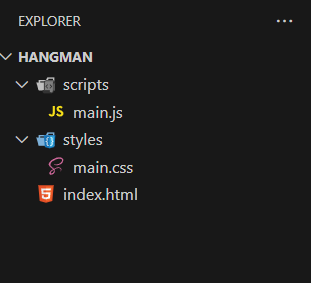
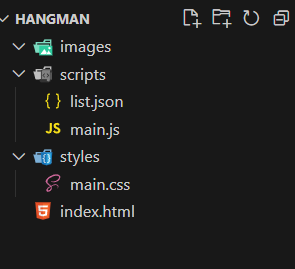
fixed tutorial

diff --git a/tutorial.html b/tutorial.html
@@ -14,7 +14,7 @@
         <article class="sidebar__item">
             <a href="#stepone">
                 <div class="sidebar__text">
-                    <h2>Stap 1: mappen en bestanden</h2>
+                    <h2>Stap 1: Mappen en bestanden</h2>
                 </div>
             </a>
         </article>
@@ -69,7 +69,7 @@
                     <div>
                         <h3>We gaan het spel hangman maken!</h3>
                         <p>Jullie zullen een klein proevertje krijgen van 1 van de oneindige mogelijkheden dat je kan doen als developer.</p>
-                        <p>We gebruiken in deze workshop de code-editor <a href="https://code.visualstudio.com/">Visual Studio Code.</a></p>
+                        <p>We gebruiken in deze workshop de code-editor <a class="link__tutorial" href="https://code.visualstudio.com/">Visual Studio Code.</a></p>
                         <p>We gaan gebruik maken van volgende codetalen:
                             <ul>
                                 <li>JavaScript</li>
@@ -85,12 +85,17 @@
             <section class="container__steps" id="stepone">
                 <article class="steps__item">
                     <div>
-                        <h2>Stap 1 - mappen en bestanden</h2>
+                        <h2>Stap 1 - Mappen en bestanden</h2>
+                    </div>
+                    <div class="steps__items--text">
+                        <ul>
+                            <li>1.1 download <a href="hangman_svg's.zip" download class="link__tutorial"> hier</a> alle hangman svg's</li>
+                        </ul>
                     </div>
                     <div class="steps__items--text">
                         <div>
                             <ul>
-                                <li>1.1 Maak een nieuwe map aan en geef als naam hangman</li>
+                                <li>1.2 Maak een nieuwe map aan en geef als naam hangman</li>
                             </ul>
                         </div>
                         <div>
@@ -100,7 +105,7 @@
                     <div class="steps__items--text">
                         <div>
                             <ul>
-                                <li>1.2 Open het programma <a href="https://code.visualstudio.com/">Visual Studio Code</a> en open de folder die je zonet hebt gemaakt</li>
+                                <li>1.3 Open het programma <a href="https://code.visualstudio.com/" class="link__tutorial">Visual Studio Code</a> en open de folder die je zonet hebt gemaakt</li>
                             </ul>
                         </div>
                         <div>
@@ -110,7 +115,7 @@
                     <div class="steps__items--text">
                         <div>
                             <ul>
-                                <li>1.3 Maak de volgende folderstructuur</li>
+                                <li>1.4 Maak de volgende folderstructuur</li>
                             </ul>
                         </div>
                         <div>
@@ -118,9 +123,17 @@
                         </div>
                     </div>
                     <div class="steps__items--text">
+                        <ul>
+                            <li>1.5 pak het zip bestand uit en sleep de hangman svg's naar de images map</li>
+                        </ul>
+                        <div>
+                            <img src="images/folder-structure-hangman.png" alt="screenshot van de folderstructuur met de hangman svg's">
+                        </div>
+                    </div>
+                    <div class="steps__items--text">
                         <div>
                             <ul>
-                                <li>1.4 Installeer de liveserver extensie zodat je html files kunt bekijken in de browser</li>
+                                <li>1.6 Installeer de liveserver extensie zodat je html files kunt bekijken in de browser</li>
                             </ul>
                         </div>
                         <div>
@@ -131,7 +144,7 @@
                         </div>
                     <div class="steps__items--text">
                         <ul>
-                            <li>1.5 druk met een rechter muisklik op de index.html en druk op open with liveserver, zo wordt je standaard browser gestart en zal je een blanco pagina zien verschijnen!</li>
+                            <li>1.7 druk met een rechter muisklik op de index.html en druk op open with liveserver, zo wordt je standaard browser gestart en zal je een blanco pagina zien verschijnen!</li>
                         </ul>
                         <div>
                         <img src="./images/start-met-liveserver.png" alt="">
@@ -274,20 +287,138 @@
                             on <a href="https://codepen.io">CodePen</a>.</span>
                         </p>
                         <script async src="https://public.codepenassets.com/embed/index.js"></script>
+                    </div>
+                    <div class="steps__items--text">
                         <ul>
-                            <li>Deze functies zeggen eigenlijk hoe het toetsenbord moet werken, dus het kijkt naar de juistheid, het woord wordt ook ingevuld, fouten worden geteld en of het spel eventueel wordt beïndigd en ook wordt het figuurtje getekent.</li>
+                            <li>5.2 Nu het toetsenbord werkt moeten we ervoor zorgen dat het programma weet wanneer een letter wel of niet overeenkomt met het gezochte woord en dat je maar 6 kansen krijgt om het te raden. Dit doe je met volgende functie</li>
                         </ul>
+                        <p class="codepen" data-height="300" data-default-tab="js" data-slug-hash="oggoMJY" data-pen-title="handleGuess" data-user="Liam-Schellinck" style="height: 300px; box-sizing: border-box; display: flex; align-items: center; justify-content: center; border: 2px solid; margin: 1em 0; padding: 1em;">
+                            <span>See the Pen <a href="https://codepen.io/Liam-Schellinck/pen/oggoMJY">
+                            handleGuess</a> by Liam Schellinck (<a href="https://codepen.io/Liam-Schellinck">@Liam-Schellinck</a>)
+                            on <a href="https://codepen.io">CodePen</a>.</span>
+                        </p>
+                        <script async src="https://public.codepenassets.com/embed/index.js"></script>
+                    </div>
+                    <div class="steps__items--text">
+                        <ul>
+                            <li>5.3 Nu zorgen we ervoor dat:
+                                <ul>
+                                    <li>alle juiste letters getoont worden in het woord</li>
+                                    <li>als je een letter raadt die vaker voorkomt, het spel het dan gelijk toont</li>
+                                    <li>wanneer je een toets hebt ingedrukt, deze uitgeschakeld wordt</li>
+                                </ul>
+                            </li>
+                        </ul>
+                        <p class="codepen" data-height="300" data-default-tab="js" data-slug-hash="NPPwBQE" data-pen-title="addWordToList" data-user="Liam-Schellinck" style="height: 300px; box-sizing: border-box; display: flex; align-items: center; justify-content: center; border: 2px solid; margin: 1em 0; padding: 1em;">
+                            <span>See the Pen <a href="https://codepen.io/Liam-Schellinck/pen/NPPwBQE">
+                            addWordToList</a> by Liam Schellinck (<a href="https://codepen.io/Liam-Schellinck">@Liam-Schellinck</a>)
+                            on <a href="https://codepen.io">CodePen</a>.</span>
+                        </p>
+                        <script async src="https://public.codepenassets.com/embed/index.js"></script>
+                    </div>
+                    <div class="steps__items--text">
+                        <ul>
+                            <li>5.4 Voor dat de functie die we net gemaakt hebben helemaal werkt heb je nog een aantal functies nodig namelijk: 
+                                <ul>
+                                    <li>Een functie die checkt of de ingevoerde letter in het woord zit</li>
+                                    <li>Een functie checkt of een letter meerdere keren in het woord voorkomt</li>
+                                    <li>Een functie die de woorden in letters splitst</li>
+                                </ul>
+                            </li>
+                        </ul>
+                        <p class="codepen" data-height="300" data-default-tab="js" data-slug-hash="qEEVQXd" data-pen-title="Untitled" data-user="Liam-Schellinck" style="height: 300px; box-sizing: border-box; display: flex; align-items: center; justify-content: center; border: 2px solid; margin: 1em 0; padding: 1em;">
+                            <span>See the Pen <a href="https://codepen.io/Liam-Schellinck/pen/qEEVQXd">
+                            Untitled</a> by Liam Schellinck (<a href="https://codepen.io/Liam-Schellinck">@Liam-Schellinck</a>)
+                            on <a href="https://codepen.io">CodePen</a>.</span>
+                        </p>
+                        <script async src="https://public.codepenassets.com/embed/index.js"></script>
+                    </div>
+                    <div class="steps__items--text">
+                        <ul>
+                            <li>5.5 Er moet ook gecontroleerd worden of de speler het hele woord correct heeft geraden</li>
+                        </ul>
+                        <p class="codepen" data-height="300" data-default-tab="js" data-slug-hash="EaabOyz" data-pen-title="checkWin" data-user="Liam-Schellinck" style="height: 300px; box-sizing: border-box; display: flex; align-items: center; justify-content: center; border: 2px solid; margin: 1em 0; padding: 1em;">
+                            <span>See the Pen <a href="https://codepen.io/Liam-Schellinck/pen/EaabOyz">
+                            checkWin</a> by Liam Schellinck (<a href="https://codepen.io/Liam-Schellinck">@Liam-Schellinck</a>)
+                            on <a href="https://codepen.io">CodePen</a>.</span>
+                        </p>
+                        <script async src="https://public.codepenassets.com/embed/index.js"></script>
+                    </div>
+                    <div class="steps__items--text">
+                        <ul>
+                            <li>5.6 Natuurlijk willen we ook dat bij elke fout dat gemaakt wordt de tekening van de hangman wordt verder getekend, dit doe je door deze functie te implementeren:</li>
+                        </ul>
+                        <p class="codepen" data-height="300" data-default-tab="js" data-slug-hash="GggOwyE" data-pen-title="drawHangman" data-user="Liam-Schellinck" style="height: 300px; box-sizing: border-box; display: flex; align-items: center; justify-content: center; border: 2px solid; margin: 1em 0; padding: 1em;">
+                            <span>See the Pen <a href="https://codepen.io/Liam-Schellinck/pen/GggOwyE">
+                            drawHangman</a> by Liam Schellinck (<a href="https://codepen.io/Liam-Schellinck">@Liam-Schellinck</a>)
+                            on <a href="https://codepen.io">CodePen</a>.</span>
+                        </p>
+                        <script async src="https://public.codepenassets.com/embed/index.js"></script>
+                    </div>
+                    <div>
+                        <ul>
+                            <li>5.7 En dan tot slot om het spel echt te laten starten moet je de start functie (initGame) nog eens aanroepen, dus dan mag je dit helemaal onderaan je pagina zetten:</li>
+                        </ul>
+                        <p class="codepen" data-height="300" data-default-tab="js" data-slug-hash="qEEVQGa" data-pen-title="game start" data-user="Liam-Schellinck" style="height: 300px; box-sizing: border-box; display: flex; align-items: center; justify-content: center; border: 2px solid; margin: 1em 0; padding: 1em;">
+                            <span>See the Pen <a href="https://codepen.io/Liam-Schellinck/pen/qEEVQGa">
+                            game start</a> by Liam Schellinck (<a href="https://codepen.io/Liam-Schellinck">@Liam-Schellinck</a>)
+                            on <a href="https://codepen.io">CodePen</a>.</span>
+                        </p>
+                        <script async src="https://public.codepenassets.com/embed/index.js"></script>
                     </div>
                 </article>
             </section>
-            <section class="container__steps" id="stepfive">
+            <section class="container__steps" id="stepsix">
                 <article class="steps__item">
                     <div>
                         <h2>Stap 6 - Gewonnen of verloren?</h2>
                     </div>
                     <div class="steps__items--text">
                         <ul>
-                            <li></li>
+                            <li>Nu de game zo goed als volledig af is gaan we er nog voor zorgen dat: 
+                                <ul>
+                                    <li>er een popup opkomt wanneer je verloren bent</li>
+                                    <li>er een popup op komt wanneer je gewonnen bent</li>
+                                    <li>de game gereset wordt</li>
+                                </ul>
+                            </li>
+                            <li>De style die je te zien gaat krijgen is de css die je al meekreeg in vorige stappen (wie nieuwschierig is kan al eens in het document main.css gaan en eens kleuren veranderen)</li>
+                        </ul>
+                    </div>
+                    <div class="steps__items--text">
+                        <ul>
+                            <li>6.1 De popup die opkomt wanneer je verloren bent:</li>
+                        </ul>
+                        <p class="codepen" data-height="300" data-default-tab="js" data-slug-hash="emmeQQq" data-pen-title="gameOver" data-user="Liam-Schellinck" style="height: 300px; box-sizing: border-box; display: flex; align-items: center; justify-content: center; border: 2px solid; margin: 1em 0; padding: 1em;">
+                            <span>See the Pen <a href="https://codepen.io/Liam-Schellinck/pen/emmeQQq">
+                            gameOver</a> by Liam Schellinck (<a href="https://codepen.io/Liam-Schellinck">@Liam-Schellinck</a>)
+                            on <a href="https://codepen.io">CodePen</a>.</span>
+                        </p>
+                        <script async src="https://public.codepenassets.com/embed/index.js"></script>
+                    </div>
+                    <div class="steps__items--text">
+                        <ul>
+                            <li>6.2 De popup die opkomt wanneer je gewonnen bent:</li>
+                        </ul>
+                        <p class="codepen" data-height="300" data-default-tab="js" data-slug-hash="xbbPQMZ" data-pen-title="gameWin" data-user="Liam-Schellinck" style="height: 300px; box-sizing: border-box; display: flex; align-items: center; justify-content: center; border: 2px solid; margin: 1em 0; padding: 1em;">
+                            <span>See the Pen <a href="https://codepen.io/Liam-Schellinck/pen/xbbPQMZ">
+                            gameWin</a> by Liam Schellinck (<a href="https://codepen.io/Liam-Schellinck">@Liam-Schellinck</a>)
+                            on <a href="https://codepen.io">CodePen</a>.</span>
+                        </p>
+                        <script async src="https://public.codepenassets.com/embed/index.js"></script>
+                    </div>
+                    <div class="steps__items--text">
+                        <ul>
+                            <li>6.3 De functie voor de game te herstarten:</li>
+                        </ul>
+                        <p class="codepen" data-height="300" data-default-tab="js" data-slug-hash="raaYQRB" data-pen-title="resetGame" data-user="Liam-Schellinck" style="height: 300px; box-sizing: border-box; display: flex; align-items: center; justify-content: center; border: 2px solid; margin: 1em 0; padding: 1em;">
+                            <span>See the Pen <a href="https://codepen.io/Liam-Schellinck/pen/raaYQRB">
+                            resetGame</a> by Liam Schellinck (<a href="https://codepen.io/Liam-Schellinck">@Liam-Schellinck</a>)
+                            on <a href="https://codepen.io">CodePen</a>.</span>
+                        </p>
+                        <script async src="https://public.codepenassets.com/embed/index.js"></script>
+                        <ul>
+                            <li>Nu ben je volledig klaar en ready to play!</li>
                         </ul>
                     </div>
                 </article>
